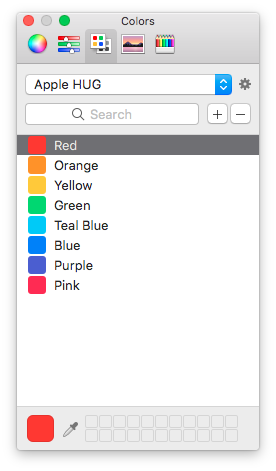
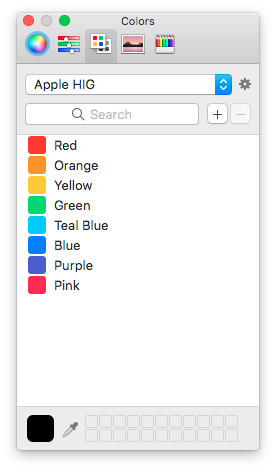
Fixed typos

diff --git a/README.md b/README.md
@@ -1,4 +1,4 @@
-# Apple HUG colors
+# Apple HIG colors
 ---
 Color pallete in **.clr** format (Apple's Color Paletes) with colors from [Apple Human Interface Guidelines](https://developer.apple.com/ios/human-interface-guidelines/visual-design/color/) for iOS.
 Use it with frameworks like [R.swift](https://github.com/mac-cain13/R.swift), [SwiftGen](https://github.com/SwiftGen/SwiftGen) or stand-alone.
@@ -20,7 +20,7 @@ Contains followings colors:
 ---
 * **Standalone:**
 	
-	Just copy **Apple HUG.clr** to **~/Library/Colors/** folder, it will appear in Color Pallete utility:
+	Just copy **Apple HIG.clr** to **~/Library/Colors/** folder, it will appear in Color Pallete utility:
 	
 	![](Images/screenshot2.png)
 
